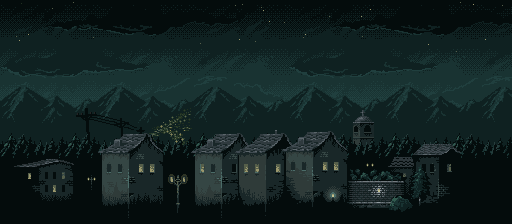
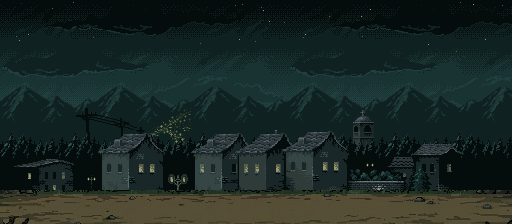
Icones de soco e tiro, chao de terra na fase 1

Changed region(s): [[0.0, 0.8438, 1.0, 1.0]]

diff --git a/js/controles.js b/js/controles.js
@@ -106,11 +106,10 @@ function criarControlesDeToque(cena) {
 
   // soco: ataque padrão, sempre o maior
   botaoToque(cena, BOTAO.soco, 0xff8a00, 'soco');
-  cena.add.image(BOTAO.soco.x, BOTAO.soco.y, 'heroi-soco', 3).setScale(1.2).setDepth(11).setAlpha(0.85);
-
+  cena.add.image(BOTAO.soco.x, BOTAO.soco.y, 'icone-soco').setDepth(11).setAlpha(0.9);
   // tiro: ataque especial, menor, só na luta 2
   if (cena.cfg.tiro) {
     botaoToque(cena, BOTAO.tiro, 0xffd23f, 'tiro');
-    desenharArma(cena, BOTAO.tiro.x, BOTAO.tiro.y);
+    cena.add.image(BOTAO.tiro.x, BOTAO.tiro.y, 'icone-tiro').setDepth(11).setAlpha(0.9);
   }
 }

diff --git a/js/game.js b/js/game.js
@@ -64,6 +64,8 @@ class CenaLuta extends Phaser.Scene {
       frameWidth: 48,
       frameHeight: 48
     });
+    this.load.image('icone-soco', 'assets/icones/icone_soco.png');
+    this.load.image('icone-tiro', 'assets/icones/icone_tiro.png');
   }
 
   create() {
